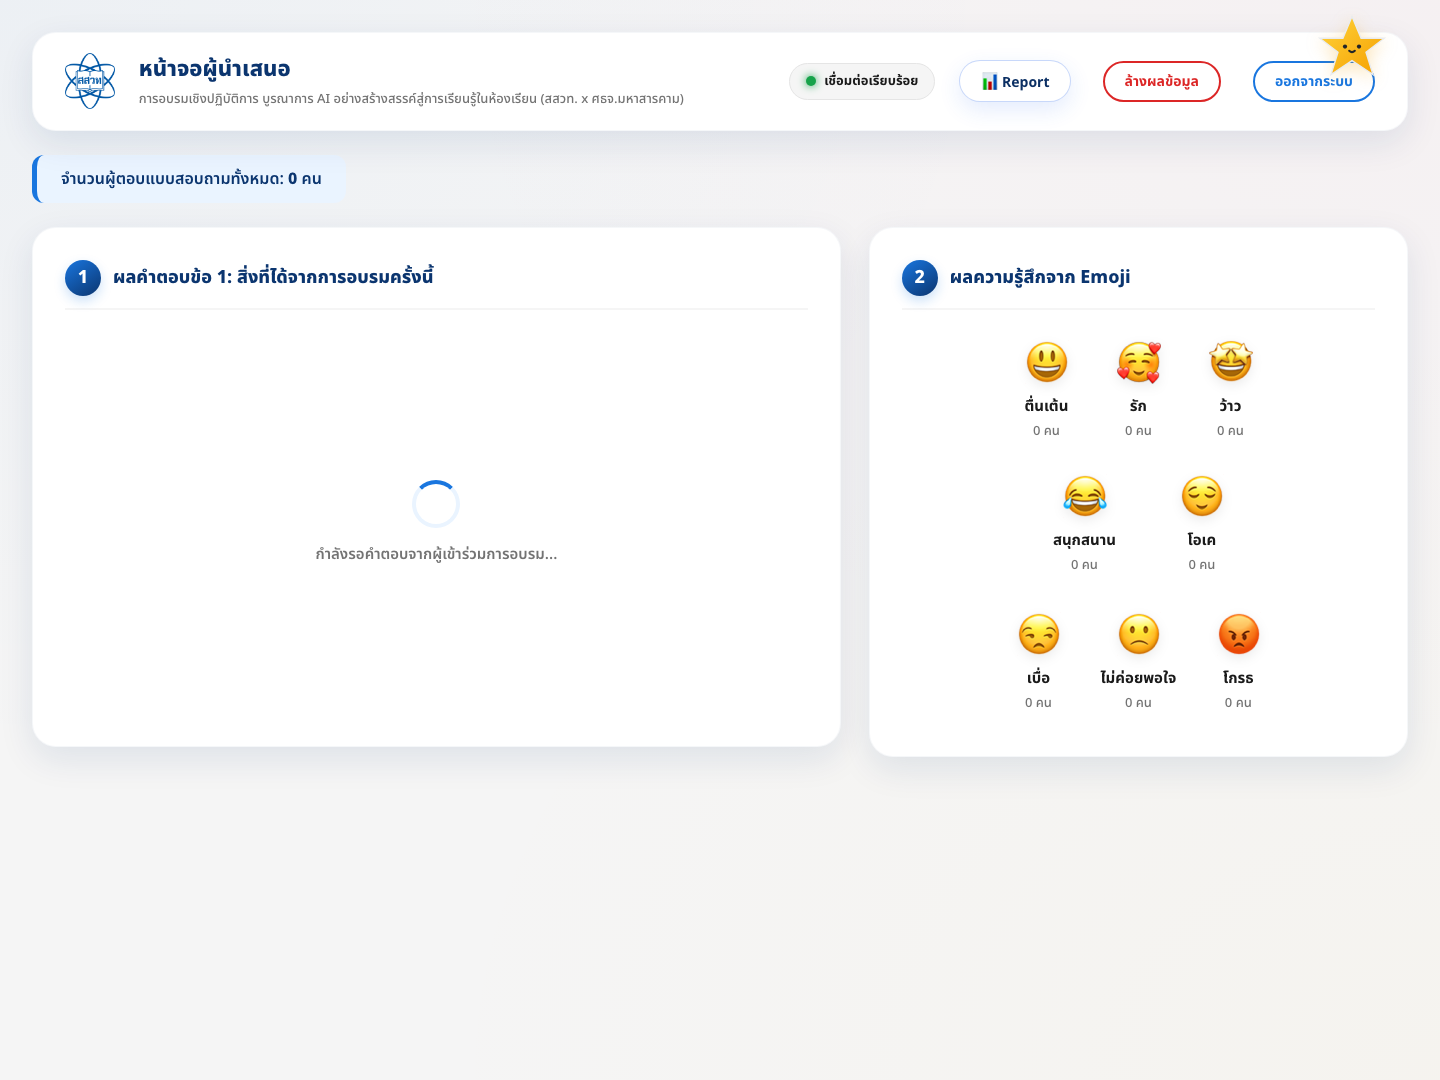
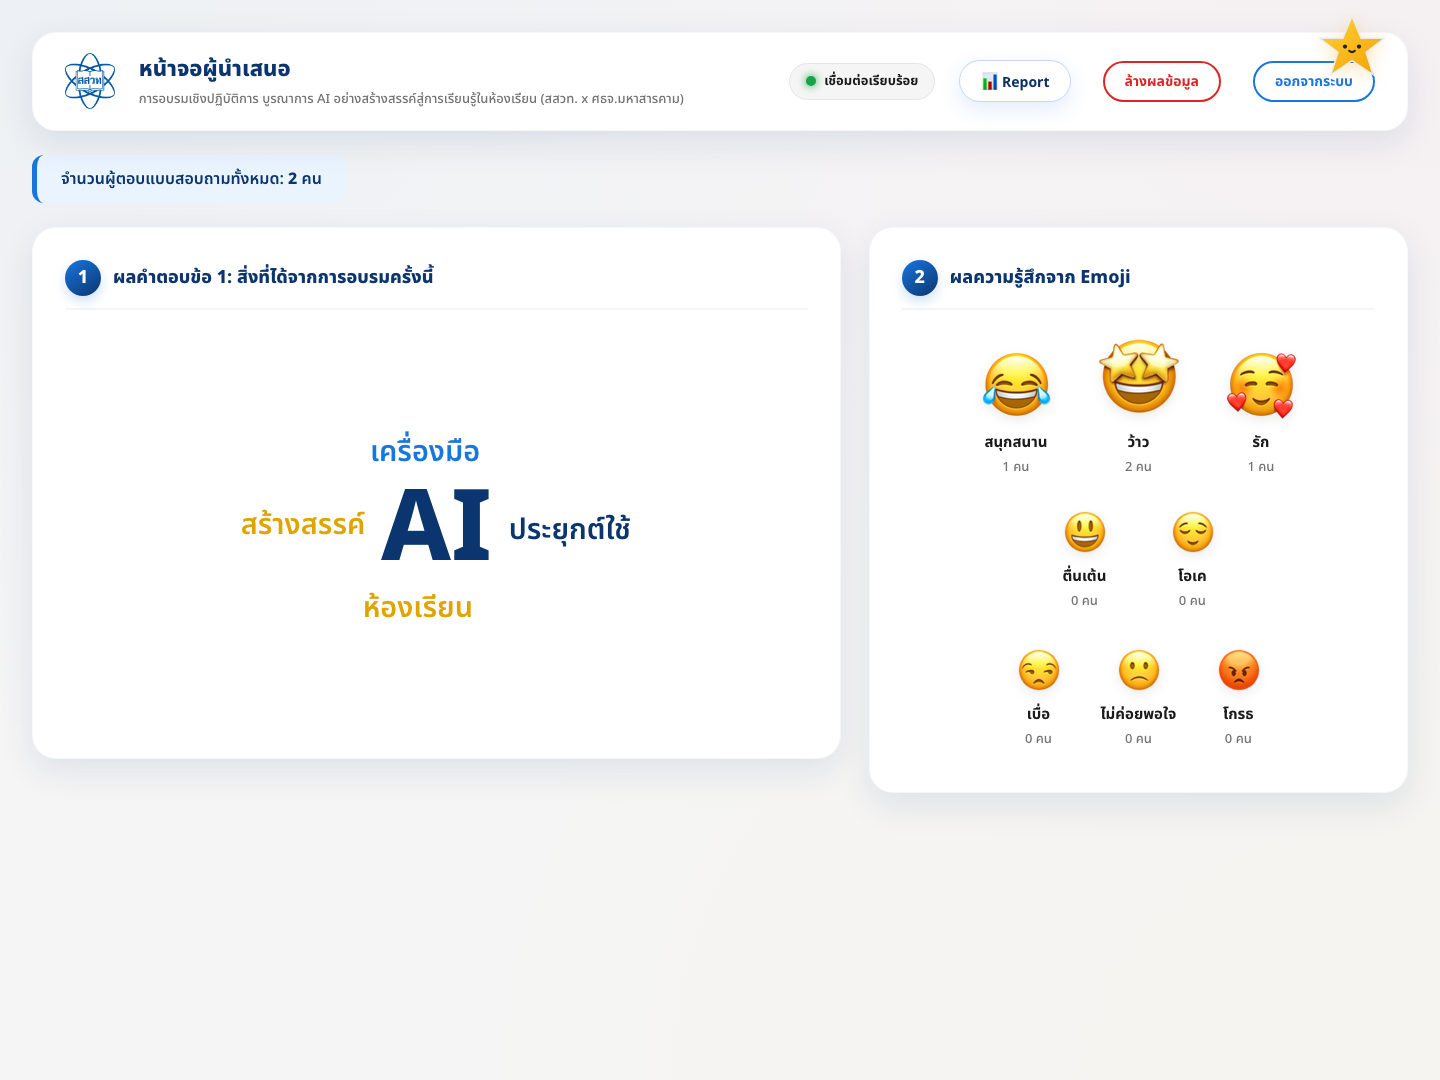
style: match print layout exactly with screen dashboard, display up to 45 words in word cloud with smaller size bound

diff --git a/client/src/features/report/report.css b/client/src/features/report/report.css
@@ -519,9 +519,11 @@
 
 @media print {
   body {
-    background: #ffffff !important;
-    -webkit-print-color-adjust: exact;
-    print-color-adjust: exact;
+    background: radial-gradient(circle at 4% 14%, rgba(191, 219, 254, 0.6) 0 100px, transparent 120px),
+                radial-gradient(circle at 96% 91%, rgba(255, 237, 213, 0.5) 0 130px, transparent 150px),
+                linear-gradient(135deg, #ffffff 0%, #f0f7ff 100%) !important;
+    -webkit-print-color-adjust: exact !important;
+    print-color-adjust: exact !important;
   }
 
   .no-print {
@@ -532,9 +534,11 @@
     width: 100vw;
     height: 100vh;
     padding: 10mm 15mm !important;
-    background: #ffffff !important;
+    background: transparent !important;
     overflow: hidden;
     box-sizing: border-box;
+    -webkit-print-color-adjust: exact !important;
+    print-color-adjust: exact !important;
   }
 
   .report-shell {
@@ -550,6 +554,11 @@
 
   .report-kpi-card {
     padding: 10px 16px;
+    background: var(--report-card) !important;
+    box-shadow: var(--report-shadow) !important;
+    border: 1px solid var(--report-border) !important;
+    -webkit-print-color-adjust: exact !important;
+    print-color-adjust: exact !important;
   }
 
   .report-grid {
@@ -559,6 +568,11 @@
   .report-card {
     padding: 12px;
     border-radius: 14px;
+    background: var(--report-card) !important;
+    box-shadow: var(--report-shadow) !important;
+    border: 1px solid var(--report-border) !important;
+    -webkit-print-color-adjust: exact !important;
+    print-color-adjust: exact !important;
   }
 
   .report-word-cloud-wrapper {
@@ -572,6 +586,16 @@
   .report-emoji-table th,
   .report-emoji-table td {
     padding: 6px;
+    -webkit-print-color-adjust: exact !important;
+    print-color-adjust: exact !important;
+  }
+
+  .report-emoji-table th.top-rank-col {
+    background: linear-gradient(180deg, #ffe8cc, #ffffff) !important;
+  }
+
+  .report-emoji-table td.top-rank-data {
+    background: #fff4e6 !important;
   }
 
   .report-emoji-table .emoji-icon {
@@ -580,6 +604,9 @@
 
   .report-summary-box {
     padding: 10px 16px;
+    background: linear-gradient(135deg, #f0f7ff, #ffffff) !important;
+    -webkit-print-color-adjust: exact !important;
+    print-color-adjust: exact !important;
   }
 
   .report-summary-box p.summary-text {

diff --git a/client/src/features/report/ReportPage.tsx b/client/src/features/report/ReportPage.tsx
@@ -197,24 +197,19 @@ function CardTitle({ number, title, subtitle }: { number: string; title: string;
 function WordCloudReportCard({ report }: { report: ReturnType<typeof buildReportSummary> }) {
   const maxCount = report.words.length > 0 ? Math.max(...report.words.map((item) => item.count)) : 0;
 
-  // Predefined cloud distribution order to place larger words in the center
-  const distributionOrder = [
-    12, 10, 8, 6, 4, 2, 0, 1, 3, 5, 7, 9, 11, 13
-  ];
-
   const displayedWords = useMemo(() => {
-    const sorted = [...report.words].sort((a, b) => b.count - a.count);
-    const result: typeof sorted = [];
-    for (const index of distributionOrder) {
-      if (sorted[index] !== undefined) {
-        result.push(sorted[index]);
+    const sorted = [...report.words].sort((a, b) => b.count - a.count).slice(0, 45);
+    const left: typeof sorted = [];
+    const right: typeof sorted = [];
+    
+    for (let i = 0; i < sorted.length; i++) {
+      if (i % 2 === 0) {
+        right.push(sorted[i]);
+      } else {
+        left.unshift(sorted[i]);
       }
     }
-    // Append remaining
-    for (let i = 14; i < sorted.length; i++) {
-      result.push(sorted[i]);
-    }
-    return result.slice(0, 20); // Show top 20 words
+    return [...left, ...right];
   }, [report.words]);
 
   return (
@@ -235,8 +230,8 @@ function WordCloudReportCard({ report }: { report: ReturnType<typeof buildReport
           <div className="report-word-cloud">
             {displayedWords.map((item, index) => {
               const ratio = maxCount > 0 ? item.count / maxCount : 0;
-              // Size scaling clamped between 14px and 42px to look extremely clean and elegant
-              const fontSize = Math.round(14 + Math.sqrt(ratio) * 28);
+              // Size scaling clamped between 10px and 34px to fit up to 45 words beautifully inside the fixed card
+              const fontSize = Math.round(10 + Math.sqrt(ratio) * 24);
 
               return (
                 <span